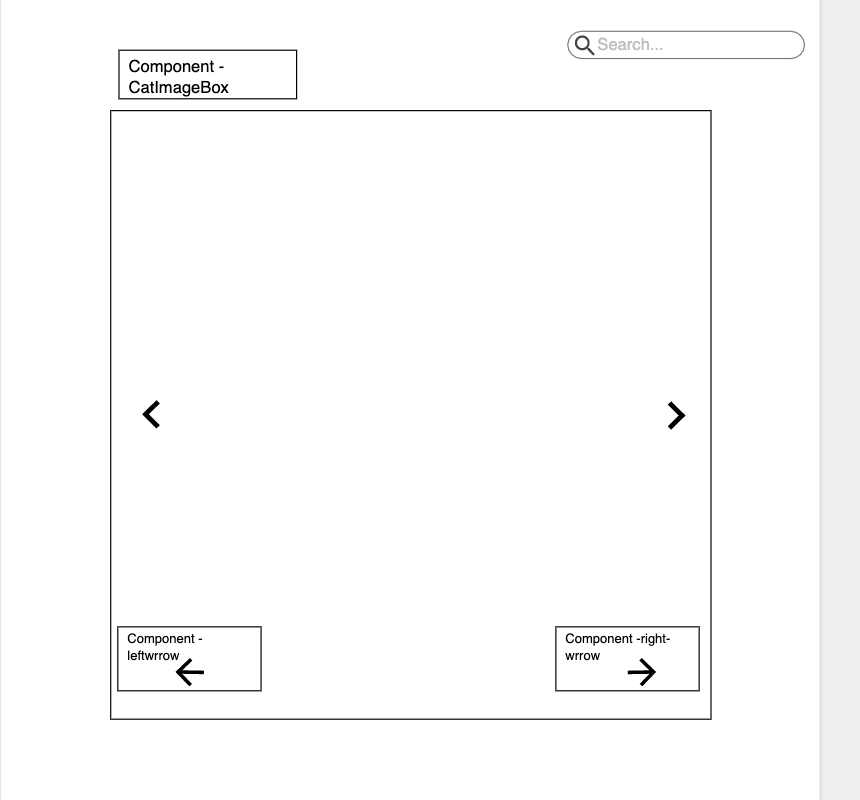
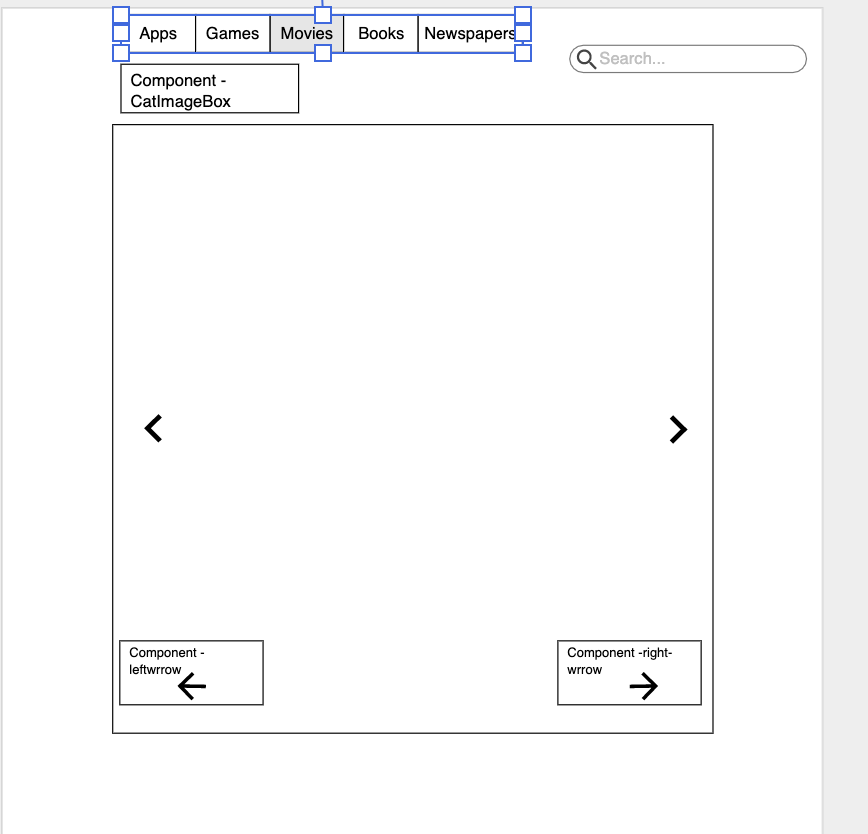
adde home.js .css and bookmarks page

Changed region(s): [[0.1209, 0.0, 0.8465, 0.9062], [0.6651, 0.0312, 0.9372, 0.0938], [0.2721, 0.7812, 0.3023, 0.8125]]

diff --git a/src/components/NavigationBar.js b/src/components/NavigationBar.js
@@ -4,7 +4,6 @@ import { Route, BrowserRouter as Router, Link, Switch, } from 'react-router-dom'
 
 function App() {
   return (
-
         <div className="navList">
             <nav> 
                 <ul>
@@ -17,16 +16,11 @@ function App() {
                     </li>
 
                     <li>
-                        <Link to="/UserProfile">UserProfile</Link>
-                    </li>
-
-                    <li>
-                        <Link to="/Login">Login</Link>
+                        <Link to="/UserProfile"> Random Cats of Kindness </Link>
                     </li>
                 </ul>
             </nav>
         </div>
-
   );
 }
 

diff --git a/src/App.js b/src/App.js
@@ -1,4 +1,5 @@
 import React from 'react';
+import Home from './components/Home.js'
 import NavigationBar from './components/NavigationBar.js'
 
 
@@ -11,7 +12,7 @@ class App extends React.Component {
       <Router>
         <div className="App">  
           <NavigationBar />
-          {/* <Route exact path="/" component={Home} />  */}
+          <Route exact path="/" component={Home} /> 
           {/* <Route path="/Bookmarks" component={Bookmarks} />
           <Route exact path="/UserProfile" component={UserProfile} />   */}
         </div>

diff --git a/src/components/Home.js b/src/components/Home.js
@@ -1,0 +1,17 @@
+import React from 'react';
+import './Home.css'
+import { Route, BrowserRouter as Router, Link, Switch, } from 'react-router-dom';
+
+function Home(){
+    return(
+        <div>
+            <h1 className="hmpg"> Home Page  </h1>
+            <div>
+                {/* insert the  api here /> */}
+            </div>
+        </div>
+    )
+}
+ 
+export default Home;
+ 

diff --git a/src/components/Bookmarks.js b/src/components/Bookmarks.js
@@ -1,0 +1,13 @@
+import React from 'react';
+import { Route, BrowserRouter as Router, Link, Switch, } from 'react-router-dom';
+
+function Bookmarks(){
+    return(
+        <React.Fragment>
+            <h3> Bookmarks and user pics </h3>
+        </React.Fragment>
+    )
+}
+
+export default Bookmarks;
+ 

diff --git a/src/components/NavigationBar.css b/src/components/NavigationBar.css
@@ -16,7 +16,7 @@ li{
     display: flex;
     flex-direction: row;
     justify-content: space-between;
-    background-color: rgb(2, 44, 80);
+    background-color: rgb(82, 163, 234);
 }
 
 li a{

diff --git a/src/components/Home.css b/src/components/Home.css
@@ -1,0 +1,7 @@
+
+    .home_background{
+        height: 100%;
+        width: 100%;    
+        opacity: 30;
+    }
+
